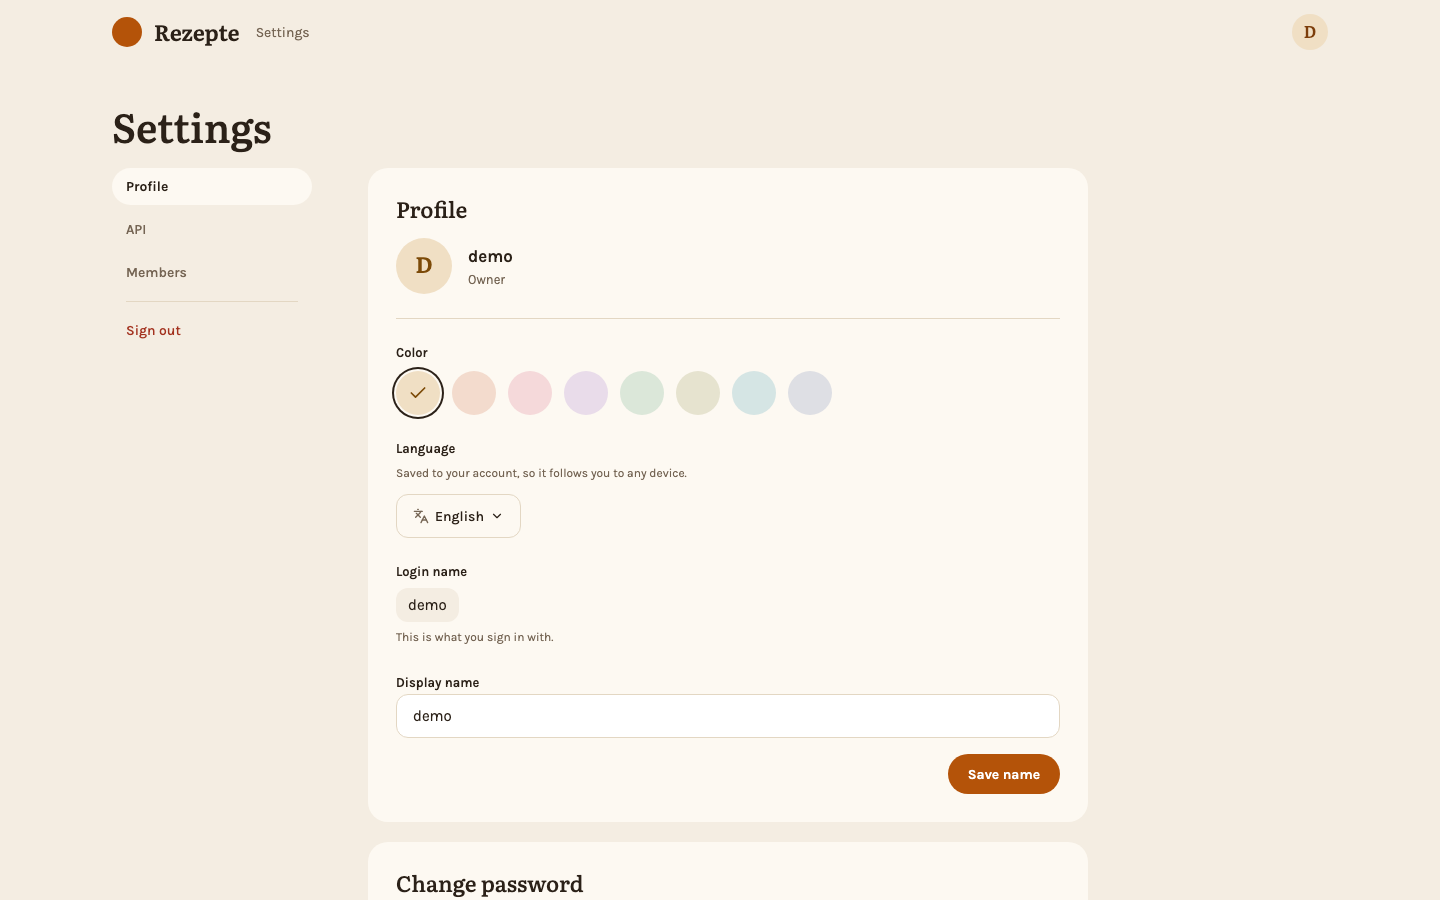
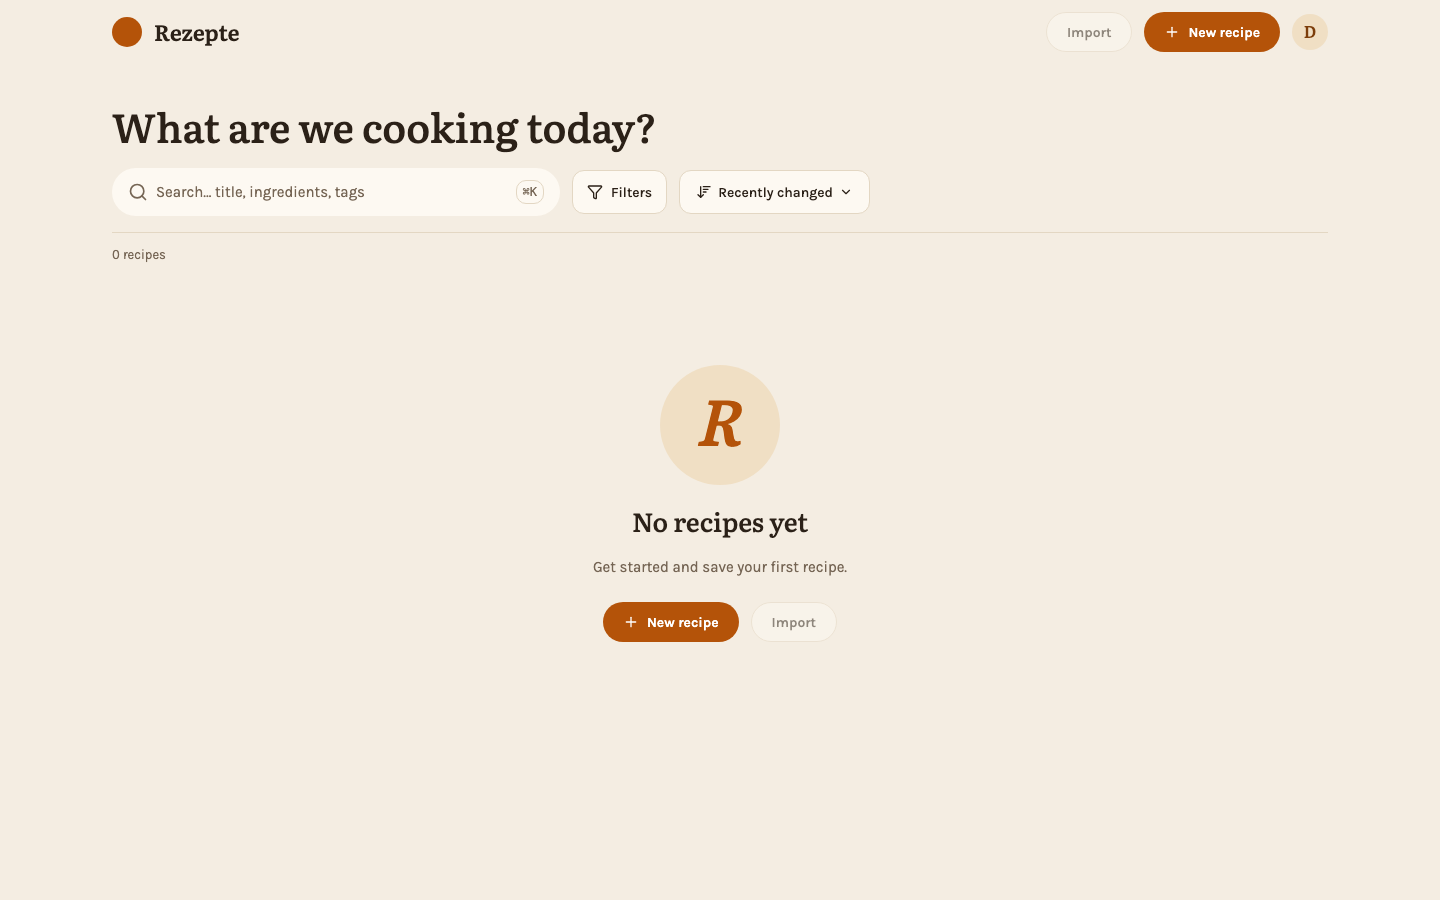
docs(user): show the empty overview after the first login

diff --git a/docs/user/screenshots/auth.spec.ts b/docs/user/screenshots/auth.spec.ts
@@ -7,9 +7,16 @@ test('login', async ({ page }, testInfo) => {
 	await shot(page, 'login');
 });
 
+// A fresh instance has no recipes, but the demo seeds some, so the three list
+// calls the overview makes are answered empty. Only the overview's own reads
+// are stubbed; the session and everything else still come from the instance.
 test('first-login', async ({ page }, testInfo) => {
 	await prepare(page, testInfo, { login: true });
-	await page.goto('/settings');
-	await page.getByRole('heading', { name: 'Change password' }).waitFor();
+	await page.route(/\/api\/v1\/recipes(\?|$)/, (route) =>
+		route.fulfill({ json: { items: [], page: 1, limit: 24, total: 0 } })
+	);
+	await page.route(/\/api\/v1\/(tags|authors)(\?|$)/, (route) => route.fulfill({ json: { items: [] } }));
+	await page.goto('/');
+	await page.getByText('No recipes yet').waitFor();
 	await shot(page, 'first-login');
 });
